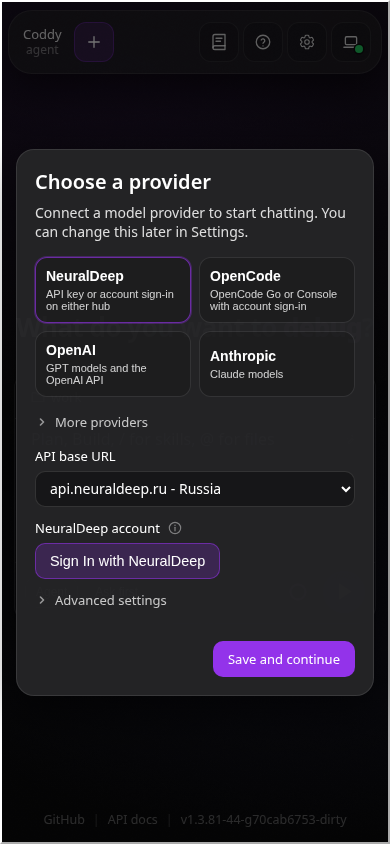
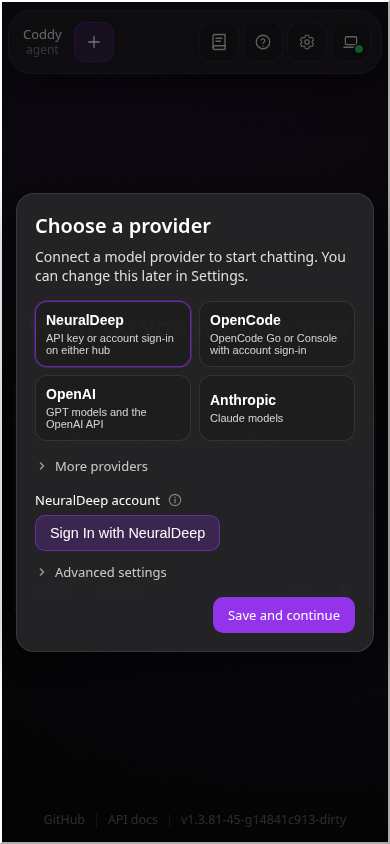
fix(onboarding): one rhythm for the dialog, and the endpoint in the fold
The spacing was uneven, and measuring it said where: 32px before the actions
while folded and 28px between the advanced row and what it opened, both from
the `margin-bottom: 16px` the shared disclosure rule carried. Outside the
form that margin was the gap; inside it, it added to the form's own.

The rhythm is now set in one place and nowhere else: the panel is a flex
column with 16px between its blocks, the form 12px between its fields, a
field 6px between its label, its control and its hint, and no block carries a
margin beside that. The CSS contract asserts each gap and refuses a
margin-bottom on any of them.

The API base URL joins the fold where the preset opens on an endpoint of its
own - NeuralDeep's two hubs, OpenCode's two gateways - because choosing
between them refines a working default rather than answering a question of
the first run. The OpenAI-compatible preset keeps its field in the form: it
has no endpoint at all and Save waits for one, so folding that away would
leave a disabled button and no reason for it.

Measured in a real browser, folded and expanded, at 390 and 1280: every gap
between consecutive blocks of the panel, of the form and inside a field, plus
the left edge of each. 16 / 12 / 6 throughout, one left edge, in both states.
The panel is 442px at 1280 and 502px at 320, down from 530 and 590.

Changed region(s): [[0.0308, 0.154, 0.9846, 0.8318], [0.7385, 0.955, 0.7692, 0.9858]]

diff --git a/external/ui/src/ui/onboarding/ProviderPickerDialog.tsx b/external/ui/src/ui/onboarding/ProviderPickerDialog.tsx
@@ -274,6 +274,37 @@ export function ProviderPickerDialog(props: {
   const keyIsAdvanced =
     !preset.commandTyped &&
     ["neuraldeep", "opencode", "devin"].includes(preset.providerType);
+  // A preset with endpoints of its own opens on the right one, so the choice
+  // is a refinement, not a question of the first run: it sits in the fold
+  // with the key and the proxy. The compatible preset is the exception - it
+  // has no endpoint at all and Save waits for one - so that field stays in
+  // the form where it cannot be missed.
+  const apiBaseField =
+    selected === "neuraldeep" || selected === "opencode" ? (
+      <label className="provider-picker-field">
+        <span>{t("onboarding.apiBase")}</span>
+        <select
+          className="provider-picker-input"
+          value={effectiveApiBase}
+          onChange={(event) => {
+            setApiBase(event.target.value);
+            setManagedLogin(false);
+            resetModels();
+          }}
+          data-testid={`provider-${selected}-domain`}
+        >
+          {(selected === "neuraldeep"
+            ? NEURALDEEP_API_BASE_OPTIONS
+            : OPENCODE_API_BASE_OPTIONS
+          ).map((option) => (
+            <option key={option.value} value={option.value}>
+              {t(option.labelKey)}
+            </option>
+          ))}
+        </select>
+      </label>
+    ) : null;
+
   const keyField = (
     <label className="provider-picker-field">
       <span>{t("onboarding.apiKey")}</span>
@@ -372,31 +403,6 @@ export function ProviderPickerDialog(props: {
         ) : null}
 
         <div className="provider-picker-form">
-          {selected === "neuraldeep" || selected === "opencode" ? (
-            <label className="provider-picker-field">
-              <span>{t("onboarding.apiBase")}</span>
-              <select
-                className="provider-picker-input"
-                value={effectiveApiBase}
-                onChange={(event) => {
-                  setApiBase(event.target.value);
-                  setManagedLogin(false);
-                  resetModels();
-                }}
-                data-testid={`provider-${selected}-domain`}
-              >
-                {(selected === "neuraldeep"
-                  ? NEURALDEEP_API_BASE_OPTIONS
-                  : OPENCODE_API_BASE_OPTIONS
-                ).map((option) => (
-                  <option key={option.value} value={option.value}>
-                    {t(option.labelKey)}
-                  </option>
-                ))}
-              </select>
-            </label>
-          ) : null}
-
           {preset.commandTyped ? null : selected === "codex" ? (
             <CodexAuthField
               providerName={preset.providerName}
@@ -516,6 +522,7 @@ export function ProviderPickerDialog(props: {
               className="provider-picker-advanced"
               data-testid="provider-advanced"
             >
+              {apiBaseField}
               {keyIsAdvanced ? keyField : null}
               <label className="provider-picker-field">
                 <span>{t("onboarding.proxy")}</span>

diff --git a/external/ui/src/ui/onboarding/ProviderPickerDialog.test.tsx b/external/ui/src/ui/onboarding/ProviderPickerDialog.test.tsx
@@ -212,11 +212,10 @@ describe("ProviderPickerDialog", () => {
         .getByTestId("provider-card-neuraldeep")
         .classList.contains("provider-picker-card--active"),
     ).toBe(true);
-    // Its endpoint picker is the one on screen, so Enter on the open dialog
-    // configures NeuralDeep without a card being clicked first.
-    expect(
-      await screen.findByTestId("provider-neuraldeep-domain"),
-    ).toBeTruthy();
+    // Its account sign-in is the one on screen, so the dialog configures
+    // NeuralDeep without a card being clicked first; the endpoint it opens on
+    // is a refinement and lives in the fold.
+    expect(await screen.findByTestId("neuraldeep-auth-field")).toBeTruthy();
   });
 
   it("goes straight to the models of a Codex this machine already signed in to", async () => {
@@ -284,6 +283,29 @@ describe("ProviderPickerDialog", () => {
     expect(await screen.findByTestId("provider-command")).toBeTruthy();
     fireEvent.click(toggle);
     expect(screen.getByTestId("provider-card-acp")).toBeTruthy();
+  });
+
+  it("puts the endpoint in the fold where a preset has one, and in the form where it does not", async () => {
+    renderPicker();
+    // NeuralDeep opens on its own hub, so the choice is a refinement.
+    expect(screen.queryByTestId("provider-neuraldeep-domain")).toBeNull();
+    fireEvent.click(screen.getByTestId("provider-advanced-toggle"));
+    const advanced = screen.getByTestId("provider-advanced");
+    expect(
+      advanced.contains(
+        await screen.findByTestId("provider-neuraldeep-domain"),
+      ),
+    ).toBe(true);
+
+    // The compatible preset has no endpoint at all and Save waits for one, so
+    // its field cannot be behind a fold.
+    showAllProviders();
+    fireEvent.click(screen.getByTestId("provider-card-compatible"));
+    const base = await screen.findByTestId("provider-api-base");
+    expect(screen.getByTestId("provider-advanced").contains(base)).toBe(false);
+    expect(
+      (screen.getByTestId("provider-save") as HTMLButtonElement).disabled,
+    ).toBe(true);
   });
 
   it("offers no Skip, and the backdrop is the way out", () => {

diff --git a/external/ui/src/ui/onboarding/onboardingCss.test.ts b/external/ui/src/ui/onboarding/onboardingCss.test.ts
@@ -146,4 +146,24 @@ describe("the provider picker's styles", () => {
     expect(opened).toContain("flex-direction: column");
     expect(opened).toContain("gap: 12px");
   });
+
+  // One rhythm, set in one place. The blocks used to carry a margin each,
+  // which added to the form's gap: 32px before the actions while folded and
+  // 28px between the advanced row and what it opened.
+  it("keeps one vertical rhythm for the whole dialog", () => {
+    const panel = rule(".provider-picker-panel");
+    expect(panel).toContain("flex-direction: column");
+    expect(panel).toContain("gap: 16px");
+    expect(rule(".provider-picker-form")).toContain("gap: 12px");
+    expect(rule(".provider-picker-field")).toContain("gap: 6px");
+    // No block may set a margin of its own beside that gap.
+    for (const selector of [
+      ".provider-picker-grid",
+      ".provider-picker-form",
+      ".provider-picker-disclosure",
+      ".provider-picker-lead",
+    ]) {
+      expect(rule(selector), selector).not.toMatch(/margin-bottom: [1-9]/);
+    }
+  });
 });

diff --git a/external/ui/src/styles/_onboarding.scss b/external/ui/src/styles/_onboarding.scss
@@ -30,6 +30,11 @@
   background: var(--coddy-tip-bg);
   border: 1px solid color-mix(in srgb, var(--text) 10%, var(--coddy-blend-base));
   padding: 24px;
+  // One rhythm, set in one place: every block of the dialog stands this far
+  // from the next, and the form sets its own, closer, gap between fields.
+  display: flex;
+  flex-direction: column;
+  gap: 16px;
 }
 
 .provider-picker-head h2 {
@@ -39,7 +44,7 @@
 }
 
 .provider-picker-lead {
-  margin: 0 0 16px;
+  margin: 0;
   font-size: 14px;
   opacity: 0.85;
 }
@@ -51,7 +56,6 @@
   // whose last row is taller than the rest reads as a mistake.
   grid-auto-rows: 1fr;
   gap: 10px;
-  margin-bottom: 16px;
 }
 
 .provider-picker-card {
@@ -86,7 +90,6 @@
   display: flex;
   flex-direction: column;
   gap: 12px;
-  margin-bottom: 16px;
 }
 
 // Every block the form borrows from the settings screen - the account
@@ -432,7 +435,6 @@
   display: flex;
   align-items: center;
   gap: 6px;
-  margin-bottom: 16px;
   padding: 0;
   border: none;
   background: none;

diff --git a/docs/ru/surfaces/web-ui.md b/docs/ru/surfaces/web-ui.md
@@ -57,7 +57,7 @@ https://github.com/user-attachments/assets/604d01bb-b730-4ca5-9955-a7a593891054
 
 - **Когда он открывается.** Один раз при загрузке страницы вызывается **`GET /coddy/onboarding/status`**. Мастер открывается, если файла config.yaml нет, не настроены провайдеры или модели, нет модели по умолчанию или у её провайдера нет пригодного источника учётных данных. По умолчанию используется **`agent.model`**, а если он пуст - первая по алфавиту запись **`models[]`**. Провайдер без ключа, которого агент не использует, только попадает в информационный список `missing_api_keys` и не открывает мастер снова. Локальный OpenAI-совместимый endpoint с собственным **`api_base`** может быть готов без ключа. Проверка статуса не выполняет **`api_key_command`** и не обращается к провайдерам.
 - **Пресеты провайдеров.** NeuralDeep, OpenCode, OpenAI, Anthropic, Codex, Devin, OpenAI-compatible и ACP agent, именно в таком порядке, и карточка, на которой мастер открывается, NeuralDeep, стоит первой. Первые четыре видны сразу, остальные появляются по нажатию на строку **Ещё провайдеры** под сеткой, чтобы каталог не занимал весь мастер прежде, чем прочитана первая строка формы; выбранная среди них карточка остаётся на виду и дальше. Какие четыре идут первыми, задаёт поле каталога `featured`, и оно сверяется между двумя языками тем же тестом на Go, что и прочие поля пресета. Карточки идут по две в ряд на любой ширине, включая телефон. Одна карточка покрывает любой OpenAI-совместимый эндпоинт, в том числе локальные Ollama и LM Studio, а карточка ACP принимает команду агента, который работает на этой машине, и записывает `providers[].acp.command` вообще без учётных данных. Список провайдеров в консоли показывает тот же набор в том же порядке и открывается на той же карточке ([Консоль](console.md#список-провайдеров)); оба интерфейса берут его из одного списка - `internal/providerpreset` и его двойника на TypeScript `onboarding/providerConfig.ts`, которые сверяет между собой тест на Go. В каждом пресете заданы имя и тип провайдера, рекомендуемая модель и, где нужно, endpoint и заглушка ключа из переменной среды. OpenCode предлагает шлюзы Go и Console и существующий device login; Devin - вход через браузер по PKCE и поле для callback-адреса на случай, когда браузер не может достучаться до машины Coddy. В обоих можно указать явный ключ, который имеет приоритет над сохранённым входом. У пресета OpenAI-compatible нет своего endpoint, поэтому **Сохранить** остаётся недоступной, пока не введён базовый URL API; Ollama на своём локальном endpoint не требует ключа, и никакая заглушка ключа для неё не записывается.
-- **Расширенные настройки.** Прокси строки убран под **Расширенные настройки** - такую же тихую строку, как **Ещё провайдеры** выше: шеврон и два слова, а открывается она в ту же колонку формы, без собственной рамки. При первом запуске их открывать не нужно; внутри обычное поле **URL прокси**, и то, что там указано, становится маршрутом всех запросов строки, включая вход в аккаунт. Пустое поле означает системный прокси. Переключателя **Игнорировать системный прокси** здесь нет: отключение системного прокси для одной строки - это тонкая настройка, а она живёт в **Настройки → Провайдеры LLM**.
+- **Расширенные настройки.** Всё, на что при первом запуске отвечать не нужно, убрано под **Расширенные настройки** - такую же тихую строку, как **Ещё провайдеры** выше: шеврон и два слова, а открывается она в ту же колонку формы, без собственной рамки. Там прокси, **Ключ API** провайдера со входом в аккаунт и **Базовый URL API** там, где у пресета есть свой адрес: два хаба NeuralDeep и два шлюза OpenCode уточняют рабочее значение по умолчанию, а не спрашивают о нём первыми. У пресета OpenAI-compatible эндпоинт остаётся в форме, потому что своего у него нет и **Сохранить** его ждёт. При первом запуске их открывать не нужно; внутри обычное поле **URL прокси**, и то, что там указано, становится маршрутом всех запросов строки, включая вход в аккаунт. Пустое поле означает системный прокси. Переключателя **Игнорировать системный прокси** здесь нет: отключение системного прокси для одной строки - это тонкая настройка, а она живёт в **Настройки → Провайдеры LLM**.
 - **Модели и проверка соединения.** Мастер не спрашивает модель. Он читает `POST /coddy/providers/models` с текущей строкой формы - несохранённый провайдер и вход, который существует только на сервере, перечисляют модели так же, - а строка начинает работу на рекомендованной модели пресета, если провайдер её отдаёт; на первой модели из его списка, если не отдаёт; и на рекомендованной, если провайдер не перечислил ничего. Вход под управлением Coddy запрашивает список сразу после подключения, а **Сохранить и продолжить** - единственная кнопка мастера - само запрашивает его один раз, если до этого список никто не получал, чтобы эндпоинт, который указал оператор, не был записан с моделью, которую он никогда не отдавал. Этот запрос и есть проверка соединения, которую раньше приходилось запускать кнопкой. У модели из списка в запись модели переносятся окно контекста, `max_tokens` из каталога и поддержка изображений. Модель меняют потом в поле ввода или в **Настройки → Провайдеры LLM**; провайдер, до которого не удалось достучаться, ошибкой здесь не считается, и строка всё равно записывается.
 - **Один вход за раз.** У провайдера со входом в аккаунт мастер показывает только этот вход: поле **Ключ API** уезжает в **Расширенные настройки** рядом с прокси - под рукой у того, у кого ключ уже есть, и не на виду у того, у кого его нет. У провайдера без входа в аккаунт (OpenAI, Anthropic, любой OpenAI-совместимый эндпоинт) ключ остаётся собственным полем формы; у Codex ключа нет вовсе, а ACP-агент не несёт ни того, ни другого. Явный ключ по-прежнему имеет приоритет над сохранённым входом везде, где есть и то и другое.
 - **Выход.** Кнопок "Пропустить пока" и "Проверить соединение" в мастере нет, единственное действие - **Сохранить и продолжить**. Клик вне окна закрывает его, а тур и **Настройки → Оформление → Пройти онбординг снова** работают как прежде.
@@ -2559,4 +2559,4 @@ Playwright ставится так же, как для проверки шевр
 
 Чтобы прогнать Playwright MCP против живого шлюза, соберите **`make build TAGS="http ui memory"`**, затем запустите **`./build/coddy serve`** с одноразовым **`--home`**, чтобы конфигурация могла включить память; откройте **`http://127.0.0.1:<port>/`**, перейдите в сессию, отправьте промпт, откройте панель задач и проверьте метку **память** в строке запуска.
 
-<!-- docsgen:source sha256=1c592167e648c226 -->
+<!-- docsgen:source sha256=2fa883f6b4995b44 -->

diff --git a/DESIGN.md b/DESIGN.md
@@ -74,8 +74,8 @@ The styles are SCSS. **`external/ui/src/styles.scss`** is the entry Vite compile
 
 ![The provider picker, NeuralDeep first](docs/assets/web-ui/onboarding-provider-dark-1280.png)
 
-- **Provider picker.** `onboarding/ProviderPickerDialog.tsx` is a modal panel at `z-index: 120`, at most 760px wide and 88vh tall, over `--coddy-overlay-scrim-bg`. Its preset cards form a two-column grid **at every width, the phone tier included** - one column there turned eight providers into a scroll of its own, so the description shrinks instead of the column. Only the presets the catalog marks `featured` are on screen (NeuralDeep, OpenCode, OpenAI, Anthropic); the rest (Codex, Devin, OpenAI-compatible, ACP agent) are drawn only once one quiet row under the grid is pressed, and a card selected among them keeps them on screen whatever the row says. **Both disclosures of the dialog are one control from one rule** (`.provider-picker-disclosure`): the app's `Chevron` and the words, no frame and no legend, starting on the same left edge as the cards and the fields. A `CollapsibleFieldset` framed and indented what reads as a plain part of the form, and the two folds looked unrelated to each other. The order is `PROVIDER_PRESETS`, the dialog opens on the first of them, and the console's picker reads the same order and the same `featured` from `internal/providerpreset`, which a Go test holds to this list. The panel uses the opaque `--coddy-tip-bg` rather than transparent glass so the hero and composer cannot bleed through.
-- **One credential at a time.** The form shows one way in: a preset with an account sign-in (`neuraldeep`, `opencode`, `devin`) renders that sign-in and moves its **API key** into the **Advanced settings** fold beside the proxy - the second disclosure, the same row as **More providers**, opening onto the form's own column; the proxy there is a plain **Proxy URL** field of this form, not `ProxySettingField` - the **Ignore system proxy** switch belongs to Settings, where a row is tuned, and a first run only ever names a proxy or leaves the field alone. What a fold hides is unmounted, and what was typed lives in the dialog's state, so folding loses nothing; a preset without one keeps the key as its first field, `codex` has none, and an ACP agent carries neither. There is **no model field, no Test connection and no Skip button**: **Save and continue** is the one action, `POST /coddy/providers/models` still supplies the catalog (a managed sign-in on connect, **Save** once when nothing has fetched one, which is the connection check the button used to be), the row starts on `startingModelId` - the preset's recommended model where the provider serves it, the first listed where it does not - and the backdrop is the way out. Saving merges the selected provider and model into the current document instead of replacing the other rows. Both dialogs are `React.lazy` chunks loaded only when shown, so first-run code does not inflate `app.js`.
+- **Provider picker.** `onboarding/ProviderPickerDialog.tsx` is a modal panel at `z-index: 120`, at most 760px wide and 88vh tall, over `--coddy-overlay-scrim-bg`. Its preset cards form a two-column grid **at every width, the phone tier included** - one column there turned eight providers into a scroll of its own, so the description shrinks instead of the column. Only the presets the catalog marks `featured` are on screen (NeuralDeep, OpenCode, OpenAI, Anthropic); the rest (Codex, Devin, OpenAI-compatible, ACP agent) are drawn only once one quiet row under the grid is pressed, and a card selected among them keeps them on screen whatever the row says. **Both disclosures of the dialog are one control from one rule** (`.provider-picker-disclosure`): the app's `Chevron` and the words, no frame and no legend, starting on the same left edge as the cards and the fields. A `CollapsibleFieldset` framed and indented what reads as a plain part of the form, and the two folds looked unrelated to each other. The order is `PROVIDER_PRESETS`, the dialog opens on the first of them, and the console's picker reads the same order and the same `featured` from `internal/providerpreset`, which a Go test holds to this list. The panel uses the opaque `--coddy-tip-bg` rather than transparent glass so the hero and composer cannot bleed through. **One rhythm, set in one place**: the panel is a flex column with `gap: 16px` between its blocks, the form `gap: 12px` between its fields and a field `gap: 6px` between its label, its control and its hint; no block carries a margin of its own, which used to add to the gap and leave 32px before the actions and 28px between the advanced row and what it opened.
+- **One credential at a time.** The form shows one way in: a preset with an account sign-in (`neuraldeep`, `opencode`, `devin`) renders that sign-in and moves its **API key** into the **Advanced settings** fold beside the proxy - the second disclosure, the same row as **More providers**, opening onto the form's own column - and so does its **API base URL** where the preset opens on an endpoint of its own (NeuralDeep's hubs, OpenCode's gateways), the choice being a refinement rather than a question of the first run; the OpenAI-compatible preset keeps that field in the form, because it has no endpoint at all and **Save** waits for one; the proxy there is a plain **Proxy URL** field of this form, not `ProxySettingField` - the **Ignore system proxy** switch belongs to Settings, where a row is tuned, and a first run only ever names a proxy or leaves the field alone. What a fold hides is unmounted, and what was typed lives in the dialog's state, so folding loses nothing; a preset without one keeps the key as its first field, `codex` has none, and an ACP agent carries neither. There is **no model field, no Test connection and no Skip button**: **Save and continue** is the one action, `POST /coddy/providers/models` still supplies the catalog (a managed sign-in on connect, **Save** once when nothing has fetched one, which is the connection check the button used to be), the row starts on `startingModelId` - the preset's recommended model where the provider serves it, the first listed where it does not - and the backdrop is the way out. Saving merges the selected provider and model into the current document instead of replacing the other rows. Both dialogs are `React.lazy` chunks loaded only when shown, so first-run code does not inflate `app.js`.
 - **Tour.** `GuidedTour.tsx` runs after Save or a dismissal only while `coddy.tourSeen` is absent from localStorage. A spotlight follows the live anchor through resize and scroll, with a 320px coach mark at `z-index: 130`, step counter, Back, Next, Skip and Escape. Optional steps whose anchors are absent are filtered out. Settings → Appearance carries **Restart onboarding** (`settings-restart-onboarding`), which clears the flag and reopens the picker. Styles live in `styles/_onboarding.scss`.
 
 ![The first tour step over Settings](docs/assets/web-ui/onboarding-tour-dark-1280.png)

diff --git a/docs/surfaces/web-ui.md b/docs/surfaces/web-ui.md
@@ -57,7 +57,7 @@ https://github.com/user-attachments/assets/604d01bb-b730-4ca5-9955-a7a593891054
 
 - **When it opens.** `GET /coddy/onboarding/status` is read once per page load. The picker opens when config.yaml is absent, no providers or models are configured, no effective default model exists, or that model's provider has no usable credential source. The default is `agent.model`, or the alphabetically first `models[]` row when `agent.model` is empty. A keyless provider the agent does not use only appears in the informational `missing_api_keys` list and does not reopen the picker. A local OpenAI-compatible endpoint with its own `api_base` can be ready without a key. The status check never runs `api_key_command` or calls a provider.
 - **Provider presets.** NeuralDeep, OpenCode, OpenAI, Anthropic, Codex, Devin, OpenAI-compatible and ACP agent, in that order, with the card the dialog opens on, NeuralDeep, first. The first four are on screen; the rest appear only when the **More providers** row under the grid is pressed, so the catalog does not fill the dialog before a word of the form is read, and a card picked among them stays on screen afterwards. Which four lead is the catalog's own `featured`, held across the two languages by the same Go test as the rest of a preset. Two cards to a row at every width, a phone included. One card covers every OpenAI-compatible endpoint, a local Ollama or LM Studio among them, and the ACP card takes the command of an agent this machine runs, writing `providers[].acp.command` and no credential at all. The console's picker offers the same catalog in the same order and opens on the same card ([Console](console.md#the-provider-picker)); both read it from the one list, `internal/providerpreset` and its TypeScript twin `onboarding/providerConfig.ts`, which a Go test holds to each other. Each preset carries a provider name, type, recommended model and, where relevant, an endpoint and environment-variable key placeholder. OpenCode offers the Go and Console gateways plus the existing device login; Devin offers browser PKCE sign-in and a callback-address field for a browser that cannot reach the Coddy machine. Both also accept an explicit key, which wins over the stored login. The OpenAI-compatible preset has no endpoint of its own, so **Save** stays disabled until its API base URL is filled in; Ollama needs no key on its local endpoint, and no placeholder key is written for it.
-- **Advanced settings.** The proxy of the row folds away behind **Advanced settings**, the same quiet row as **More providers** above it - a chevron and two words, opening onto the form's own column rather than a frame of its own. A first run never has to open it; opened, it holds a plain **Proxy URL** field, and what is typed there is the route of every request the row makes, the sign-in included. An empty field follows the system proxy. The **Ignore system proxy** switch is not here: turning the system proxy off for one row is tuning, and tuning lives in **Settings → LLM providers**.
+- **Advanced settings.** What a first run does not have to answer folds away behind **Advanced settings**, the same quiet row as **More providers** above it - a chevron and two words, opening onto the form's own column rather than a frame of its own. It holds the proxy, the **API key** of a provider that signs in, and the **API base URL** where the preset opens on an endpoint of its own: NeuralDeep's two hubs and OpenCode's two gateways are a refinement of a working default, not a question to answer first. The OpenAI-compatible preset keeps its endpoint in the form, since it has none and **Save** waits for one. A first run never has to open it; opened, it holds a plain **Proxy URL** field, and what is typed there is the route of every request the row makes, the sign-in included. An empty field follows the system proxy. The **Ignore system proxy** switch is not here: turning the system proxy off for one row is tuning, and tuning lives in **Settings → LLM providers**.
 - **Models and connection checks.** The dialog asks for no model. It reads `POST /coddy/providers/models` with the row as it stands in the form - an unsaved provider and a login that only exists on the server list their models the same way - and the row starts on the preset's own recommended model where the provider serves it, on the first model it does list where it does not, and on the recommended one when the provider listed nothing. A managed sign-in fetches as soon as it connects, and **Save and continue** - the dialog's one action - fetches once itself when nothing has, so an endpoint the operator brought is not written against a model it never served. That fetch is the connection check a **Test connection** button used to ask for by hand. The listed model carries its context window, catalog `max_tokens` and image support into the model entry. The model is changed afterwards in the composer or in **Settings → LLM providers**; a provider that cannot be reached is not an error here, and the row is still written.
 - **One way in at a time.** A provider that signs in to an account shows that sign-in and nothing else to answer: its **API key** moves into **Advanced settings** beside the proxy, in reach for whoever already has a key, out of the way of whoever does not. A provider with no sign-in (OpenAI, Anthropic, any OpenAI-compatible endpoint) keeps the key as the form's own field; Codex has no key at all, and an ACP agent carries neither. An explicit key still wins over a stored login wherever both exist.
 - **Leaving.** The dialog has no Skip button and no Test connection button; **Save and continue** is the one action. Clicking outside it closes it, and the tour and **Settings → Appearance → Restart onboarding** behave as before.

diff --git a/docs/assets/INDEX.md b/docs/assets/INDEX.md
@@ -498,8 +498,8 @@ Generated by `make docs`. "Used by" lists the files that reference the asset.
 | `message-edit-banner-dark-1280.png` | 271 KB | docs/ru/surfaces/web-ui.md, docs/surfaces/web-ui.md |
 | `message-edit-undo-dark-1280.png` | 254 KB | docs/ru/surfaces/web-ui.md, docs/surfaces/web-ui.md |
 | `notifications-setting-dark-1280.png` | 98 KB | docs/ru/surfaces/web-ui.md, docs/surfaces/web-ui.md |
-| `onboarding-provider-dark-1280.png` | 367 KB | DESIGN.md, docs/ru/surfaces/web-ui.md, docs/surfaces/web-ui.md |
-| `onboarding-provider-dark-390.png` | 127 KB | docs/ru/surfaces/web-ui.md, docs/surfaces/web-ui.md |
+| `onboarding-provider-dark-1280.png` | 391 KB | DESIGN.md, docs/ru/surfaces/web-ui.md, docs/surfaces/web-ui.md |
+| `onboarding-provider-dark-390.png` | 142 KB | docs/ru/surfaces/web-ui.md, docs/surfaces/web-ui.md |
 | `onboarding-restart-dark-1280.png` | 317 KB | docs/ru/surfaces/web-ui.md, docs/surfaces/web-ui.md |
 | `onboarding-tour-dark-1280.png` | 412 KB | DESIGN.md, docs/ru/surfaces/web-ui.md, docs/surfaces/web-ui.md |
 | `phone-task-count-dark-390.png` | 10 KB | docs/ru/surfaces/web-ui.md, docs/surfaces/web-ui.md |
